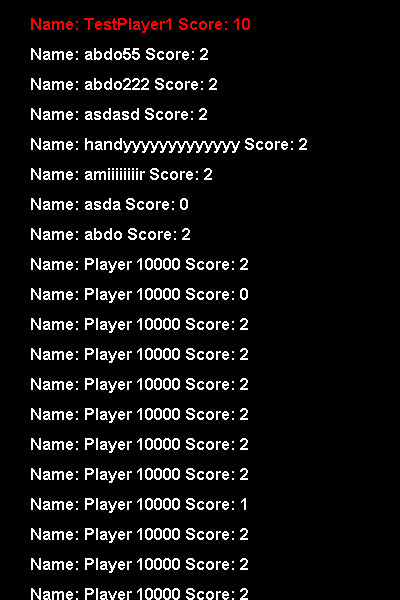
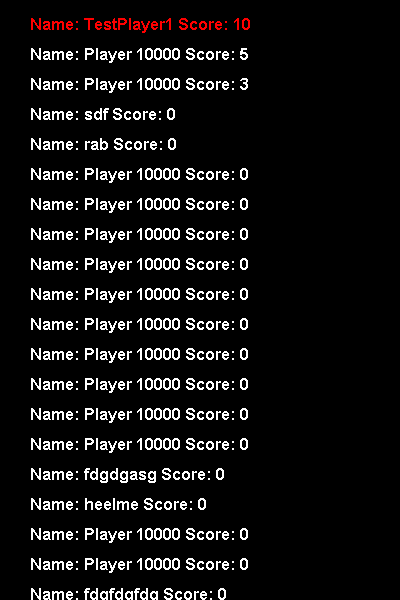
final game

diff --git a/src/Man/AirHockey.java b/src/Man/AirHockey.java
@@ -31,13 +31,12 @@ public class AirHockey extends AnimListener implements MouseMotionListener, Mous
     boolean gamerun1p = true; /* For two players make it false */
     boolean start = true;
     Timer T = new Timer();
-    int scoreRed = 0;
-    int scoreBlue = 0;
+
     int highScore = 0;
     private int lastHighScore = -1;
     static int page;
     String player1Name = "", player2Name = "";
-    int player1Score = scoreRed, player2Score = scoreBlue;
+    int player1Score = red.score, player2Score = blue.score;
     Scanner input = new Scanner(System.in);
 
     SoundPlayer goalRed = new SoundPlayer("sound/goolRed.wav");
@@ -109,7 +108,6 @@ public class AirHockey extends AnimListener implements MouseMotionListener, Mous
                     initializeGame();
                     System.out.println("Page: " + page + ", Player1 Score: " + player1Score + ", Player2 Score: " + player2Score + "\n");
                     System.out.println("Saving scores: " + player1Name + " - " + player1Score + ", " + player2Name + " - " + player2Score + "\n");
-//                    System.out.println("Game initialized with players: " + player1Name + ", " + player2Name);
                     start = false;
                 }
 
@@ -124,7 +122,7 @@ public class AirHockey extends AnimListener implements MouseMotionListener, Mous
                     backgroundSound.stop();
                 }
 //                // Check if the game is over
-                if (T.t2 > 5 || blue.score >= 13 || red.score >= 13) {
+                if (T.t2 > 5 || blue.score >= 5 || red.score >= 5) {
                     endGame(gl);
                     goalBlue.stop();
                     goalRed.stop();
@@ -377,8 +375,8 @@ public class AirHockey extends AnimListener implements MouseMotionListener, Mous
             speedx = 0;
             speedy = 0;
         }
-        if (Math.max(scoreBlue, scoreRed) > highScore) {
-            highScore = Math.max(scoreBlue, scoreRed);
+        if (Math.max(blue.score, red.score) > highScore) {
+            highScore = Math.max(blue.score, red.score);
             saveHighScore(highScore);
         }
 
@@ -387,8 +385,8 @@ public class AirHockey extends AnimListener implements MouseMotionListener, Mous
             lastHighScore = highScore;
         }
 
-        player1Score = scoreRed;
-        player2Score = scoreBlue;
+        player1Score = red.score;
+        player2Score = blue.score;
 
 //        saveHighScore(highScore);
 //        System.out.println("highScore " + highScore);
@@ -466,7 +464,7 @@ public class AirHockey extends AnimListener implements MouseMotionListener, Mous
         BufferedImage image = hi.createImageWithScores(players, highScorePlayer);
 
         // Save the image as a PNG file
-        hi.saveImageToFile(image, "C:\\Users\\abdel\\Desktop\\graphic-project\\mainProject_304\\Assets\\high_scores.png");
+        hi.saveImageToFile(image, "C:\\Users\\user\\Documents\\graph1\\mainProject_304\\Assets\\high_scores.png");
     }
 
     public void initializeGame() {
@@ -477,6 +475,9 @@ public class AirHockey extends AnimListener implements MouseMotionListener, Mous
         speedx=0;
         player1Name = (String) JOptionPane.showInputDialog(null, "Enter Name", "Player 10000"); //java methods  Swing library
 
+//        if (JOptionPane.CANCEL_OPTION == JOptionPane.CLOSED_OPTION){
+//            page=0;
+//        }
         if (!gamerun1p) {
             System.out.println("Enter player 2 name:");
 
@@ -503,8 +504,8 @@ public class AirHockey extends AnimListener implements MouseMotionListener, Mous
         T.t2 = 4;
         T.t3 = 4;
         T.t4 = 4;
-        player1Score = scoreRed;
-        player2Score = scoreBlue;
+        player1Score = red.score;
+        player2Score = blue.score;
         saveScoresAndNamesToFile(player1Name, player1Score, player2Name, player2Score);
         generateHighScoreImage();
     }

diff --git a/src/Man/Run.java b/src/Man/Run.java
@@ -34,14 +34,14 @@ public class Run extends JFrame {
         GLCanvas glcanvas;
         JButton startButton = new JButton("Start");
 
-        JButton Button2 = new JButton("HighScore");
+
 
         startButton.addActionListener(new ActionListener() {
             @Override
             public void actionPerformed(ActionEvent e) {
                 if (!isAnimating) {
                     animator.start();
-                    startButton.setText("Stop");
+                    startButton.setText("pause");
                     isAnimating = true;
                 } else {
                     animator.stop();
@@ -52,58 +52,18 @@ public class Run extends JFrame {
         });
 
 
-
-
-        Button2.addActionListener(new ActionListener() {
-            @Override
-            public void actionPerformed(ActionEvent e) {
-
-                System.out.println("============================================");
-                System.out.println("============================================");
-                 readFromFile();
-                System.out.println("============================================");
-                System.out.println("============================================");
-
-            }
-        });
-
-
-
-
-
-
-
-
-
-
-
-
-
-
-
-
-
-
-
-        // إعداد GLCanvas والمستمعات
         AnimListener listener = new AirHockey();
         glcanvas = new GLCanvas();
         glcanvas.addGLEventListener(listener);
-//        glcanvas.addGLEventListener(listener);
+
         glcanvas.addKeyListener(listener);
-//        glcanvas.addMouseListener((MouseListener) listener);
         glcanvas.addMouseMotionListener((MouseMotionListener) listener);
         glcanvas.addMouseListener((MouseListener) listener);
         getContentPane().add(glcanvas, BorderLayout.CENTER);
         animator = new FPSAnimator(glcanvas, 60);
 
-//        JPanel panel = new JPanel();
-//        panel.add(startButton, BorderLayout.CENTER);
-//        add(panel, BorderLayout.SOUTH);
-
         JPanel panel = new JPanel(new FlowLayout(FlowLayout.CENTER)); // المحاذاة لليسار
         panel.add(startButton);  // إضافة الزر إلى اللوحة
-        panel.add(Button2);
         add(panel, BorderLayout.SOUTH);  // إضافة اللوحة في الجزء السفلي
 
         setTitle("Air Hockey");

diff --git a/src/Man/HighScoreImage.java b/src/Man/HighScoreImage.java
@@ -113,6 +113,6 @@ public class HighScoreImage {
         BufferedImage image = createImageWithScores(players, highScorePlayer);
 
         // Save the image to a file
-        saveImageToFile(image, "C:\\Users\\abdel\\Desktop\\graphic-project\\mainProject_304\\Assets\\high_scores.png");
+        saveImageToFile(image, "C:\\Users\\user\\Documents\\graph1\\mainProject_304\\Assets\\high_scores.png");
     }
 }
